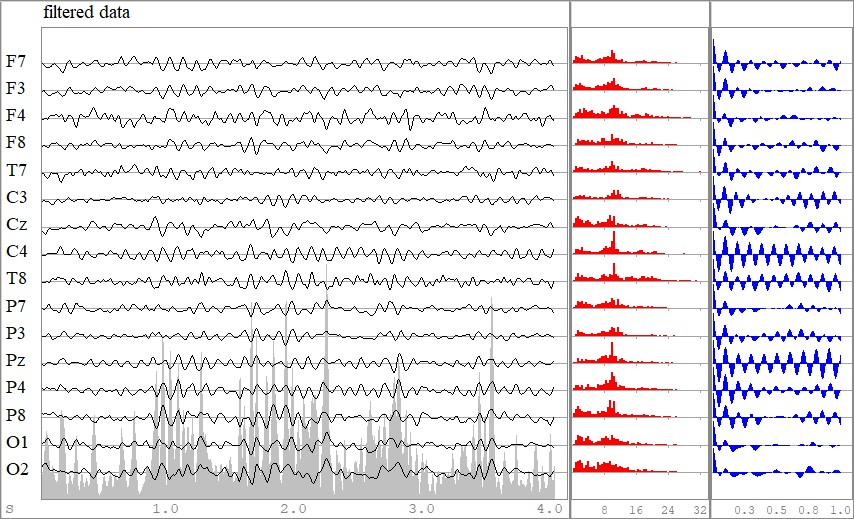
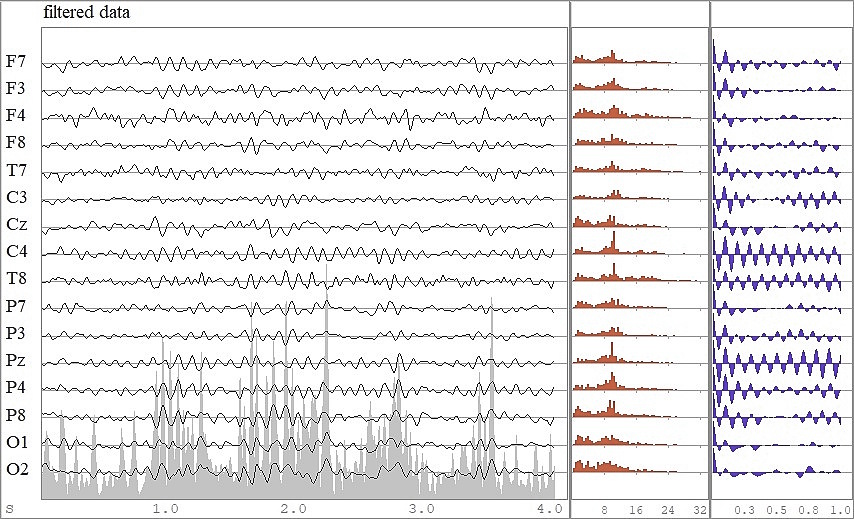
dev

diff --git a/docs/src/Tutorials/Tutorial Spatial Filters 1.md b/docs/src/Tutorials/Tutorial Spatial Filters 1.md
@@ -68,7 +68,7 @@ Finally, we obtain ``B=WU`` and ``A=U^TW^+``.
 As a data example we use the [`EXAMPLE_P300_1`](@ref) example P300 BCI example file provided with **Eegle**, selecting 4s from second 77 to second 81. Figure 1 shows the time series of the epoch submitted to spatial filtering (the data ``X``).
 
 ![Figure 1](../assets/Fig1_Tutorial_Spatial_Filters_1.jpg)
-**Figure 1** *The EEG epoch used as example, along with the amplitude spectra (red) and autocorrelation function (in blue)*
+**Figure 1** *The EEG epoch used as example, along with the amplitude spectra in the range 1Hz-32Hz (red) and autocorrelation function for lags up to 1s (in blue)*
 
 As it can be seen, there are artifacts due to F4 and Cz electrodes contact loss. 
 
